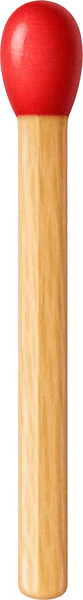
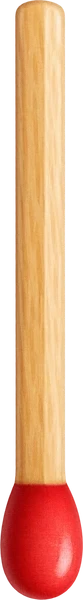
Matchstick: faint empty slots (glow only while picking), thicker sticks with gaps, heads aligned, bigger operators
Claude-Session: https://claude.ai/code/session_01C8PtLB3LUJopB3xqJkoRPg

diff --git a/match/index.html b/match/index.html
@@ -140,8 +140,14 @@ body[data-vt=neon] .sk.on{background-image:url(../img/mt/stick_neon_h.webp)!impo
 .sk.v.off{background-image:url(../img/mt/slot_v.webp)!important}
 body[data-vt=retro] .sk.off{filter:sepia(1) saturate(2) brightness(.95)}body[data-vt=neon] .sk.off{filter:drop-shadow(0 0 3px #3ff0ff);opacity:.6}
 .sk.pick{opacity:1!important;transform:translateY(-6%) scale(1.06);filter:drop-shadow(0 0 6px #ffd23a) drop-shadow(0 0 2px #fff)!important}
-.sk.h{height:8.5%}.dg .g{top:45.7%}.sk.v{width:14.5%}
-.op{width:13%}.op .h{height:13%!important;top:43.5%}.op .v{width:20%!important;left:40%}.op.eqs .h1{top:28%}.op.eqs .h2{top:59%}
+.dg .sk.h{height:10.5%;left:15%;width:70%}.dg .a{top:0}.dg .g{top:44.75%}.dg .d{bottom:0}
+.dg .sk.v{width:18%;height:40%}.dg .f,.dg .e{left:0}.dg .b,.dg .c{right:0}.dg .f,.dg .b{top:7%}.dg .e,.dg .c{bottom:7%;top:auto}
+.op{width:14%;aspect-ratio:.58}.op .h{height:10.5%!important;top:44.75%;left:0;width:100%}.op .v{width:18%!important;height:62%!important;left:41%;top:19%}
+.op.eqs .h1{top:33%}.op.eqs .h2{top:56%}
+#eq .sk.off{opacity:.1;filter:grayscale(1) brightness(1.4)}
+#eq.picking .sk.off{opacity:.9;filter:drop-shadow(0 0 4px #ffe066) brightness(1.2);animation:slotP 1s ease-in-out infinite}
+body[data-vt=neon] #eq.picking .sk.off{filter:drop-shadow(0 0 5px #3ff0ff)}
+@keyframes slotP{50%{opacity:.5}}
 .dg .f,.dg .e{left:1%}.dg .b,.dg .c{right:1%}
 .fxw{position:absolute;inset:0;pointer-events:none;background:url(../img/mt/fx.webp) center/contain no-repeat;animation:fxw 1.6s ease-out forwards}
 @keyframes fxw{0%{opacity:0;transform:scale(.5)}25%{opacity:1;transform:scale(1.05)}100%{opacity:0;transform:scale(1.2)}}
@@ -403,7 +409,7 @@ function load(i){ P.cur=i; store.set('prog',P); const q=Q[i]; st=[new Set(D[q[0]
   $('stN').textContent=(i+1)+'/'+Q.length; lvRow($('lvs'),Q.map((_,k)=>'もんだい'+(k+1)),i,k=>P.done[k]?1:0,load); draw(); setStatus('1本動かして式を正しくしよう'); setTimeout(()=>sayText(1,'どれを動かすワン？'),300); }
 function digit(p){ const e=document.createElement('div'); e.className='dg';
   'abcdefg'.split('').forEach(s=>{ const k=document.createElement('i'); const on=st[p].has(s); k.className='sk '+('adg'.includes(s)?'h':'v')+' '+s+' '+(on?'on':'off')+(pk&&pk[0]===p&&pk[1]===s?' pick':''); k.onclick=()=>tap(p,s); e.appendChild(k); }); return e; }
-function draw(){ const eq=$('eq'); eq.innerHTML=''; eq.appendChild(digit(0));
+function draw(){ const eq=$('eq'); eq.innerHTML=''; eq.classList.toggle('picking',!!pk); eq.appendChild(digit(0));
   const op=document.createElement('div'); op.className='op'; op.innerHTML='<i class="sk h on fix"></i>'; const v=document.createElement('i'); v.className='sk v '+(st[1]?'on':'off')+(pk&&pk[0]===1?' pick':''); v.onclick=()=>tap(1,'v'); op.appendChild(v); eq.appendChild(op);
   eq.appendChild(digit(2)); const e=document.createElement('div'); e.className='op eqs'; e.innerHTML='<i class="sk h h1 on fix"></i><i class="sk h h2 on fix"></i>'; eq.appendChild(e); eq.appendChild(digit(3)); $('bUndo').disabled=!hist.length; }
 const has=(p,s)=>p===1?st[1]:st[p].has(s);

diff --git a/sw.js b/sw.js
@@ -1,5 +1,5 @@
 // オフライン対応（ページは最新を優先、画像などはキャッシュを優先）
-const V='gc-v15';
+const V='gc-v16';
 const CORE=['./','index.html','coins.js','backup.js','manifest.webmanifest','icons/icon-192.png',
  ...['reversi','shogi','wanko','gomoku','memory','escape','rings','peg','slide','hanoi'].map(g=>g+'/')];
 self.addEventListener('install',e=>{e.waitUntil(caches.open(V).then(c=>c.addAll(CORE)).then(()=>self.skipWaiting()))});
